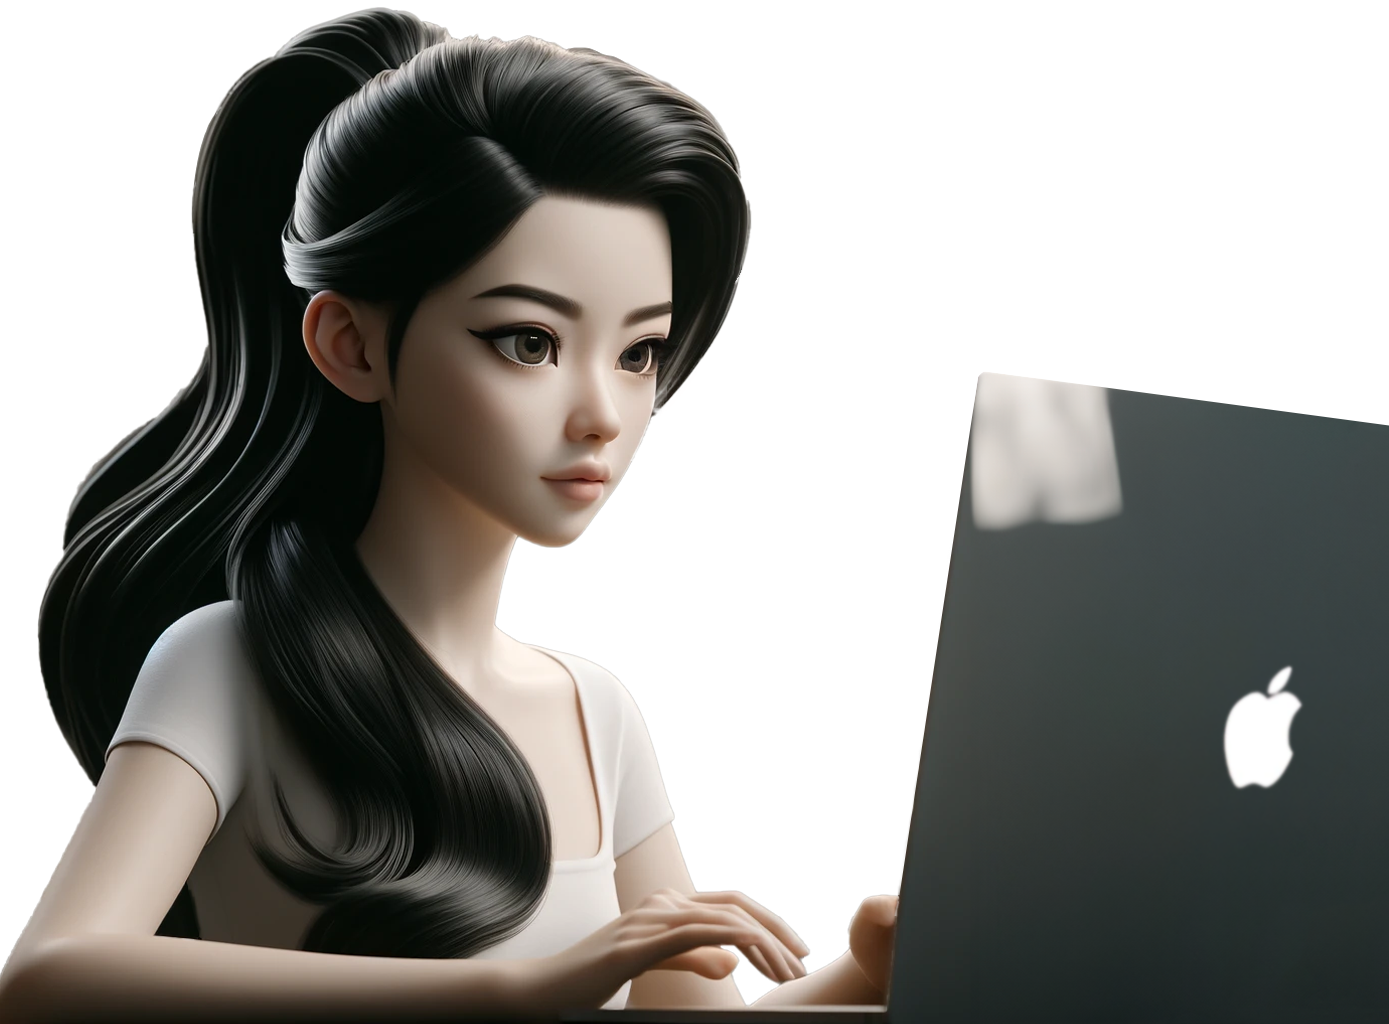
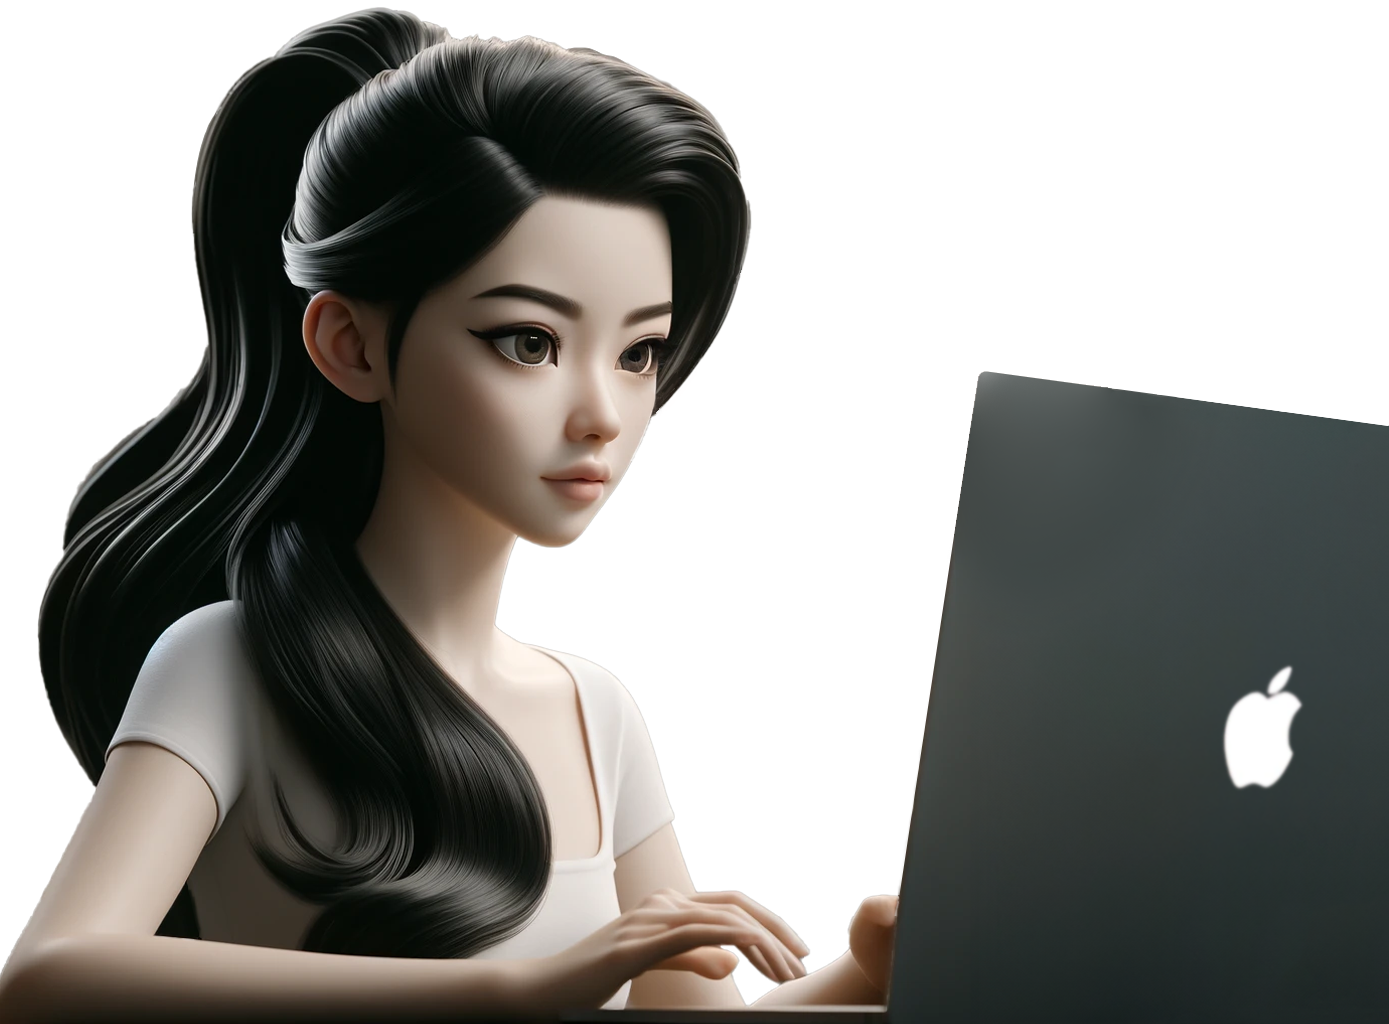
Add Image

Changed region(s): [[0.6811, 0.3438, 0.8049, 0.5312], [0.4644, 0.375, 0.4953, 0.4062]]

diff --git a/src/app/components/HeroSection.jsx b/src/app/components/HeroSection.jsx
@@ -1,4 +1,5 @@
 import React from "react";
+import Image from "next/image";
 
 const HeroSection = () => {
   return (
@@ -9,13 +10,24 @@ const HeroSection = () => {
             {"Hello, I'm Ujeong"}
             {/* 작은따옴표로 에러 발생해서 {""} 사이에 문자열 입력 */}
           </h1>
-          <p className="text-[#ADB7BE] text-lg lg:text-xl">
+          <p className="text-[#ADB7BE] text-lg mb-6 lg:text-xl">
             As a passionate Full-Stack Developer, I blend deep technical
             expertise with a keen eye for design to create impactful web
             solutions.
           </p>
         </div>
-        <div className="col-span-5"></div>
+        <div className="col-span-5 place-self-center mt-4 lg:mt-0">
+          <div className="rounded-full bg-[#181818] w-[400px] h-[300px] lg:w-[400px] lg:h-[300px] relative">
+            <Image
+              src="/images/mac_xia.png"
+              alt="Mac Xia"
+              // className="absolute transform -translate-x-1/2 -translate-y-1/2 top-1/2 left-1/2"
+              width={400}
+              height={250}
+              className="blur-edge"
+            />
+          </div>
+        </div>
       </div>
     </section>
   );

diff --git a/src/app/globals.css b/src/app/globals.css
@@ -31,3 +31,13 @@ body {
     text-wrap: balance;
   }
 }
+
+.blur-edge {
+  filter: blur(0.05px); 
+  mask-image: radial-gradient(circle at center, black 70%, transparent 80%);
+  mask-size: 100% 100%;
+}
+
+
+
+
